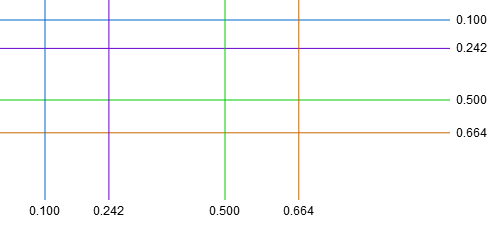
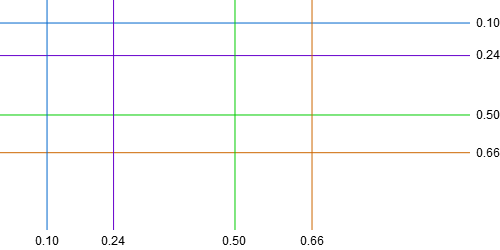
docs: improve screenshots

Changed region(s): [[0.0, 0.0, 1.0, 0.98], [0.18, 0.924, 0.27, 0.98]]

diff --git a/examples/line.js b/examples/line.js
@@ -3,17 +3,19 @@ var height = 250;
 
 var xScale = d3.scaleLinear()
   .domain([0, 1])
-  .range([0, width - 50]);
+  .range([0, width - 30]);
 
 var yScale = d3.scaleLinear()
   .domain([0, 1])
-  .range([0, height - 50]);
+  .range([0, height - 20]);
 
 var horizontalLine = fc.annotationLine()
+  .label(function(d) { return d.toFixed(2); })
   .xScale(xScale)
   .yScale(yScale);
 
 var verticalLine = fc.annotationLine()
+  .label(function(d) { return d.toFixed(2); })
   .orient('vertical')
   .xScale(xScale)
   .yScale(yScale);
@@ -23,8 +25,7 @@ var t0 = Date.now();
 
 function wavify(d, i, a) {
     var t = Date.now() - t0;
-    var value = d * Math.abs(Math.sin((i + 1) * t / 1e4 + i * Math.PI / a.length)) + 0.1;
-    return value.toFixed(3);
+    return d * Math.abs(Math.sin((i + 1) * t / 1e4 + i * Math.PI / a.length)) + 0.1;
 }
 
 function render() {

diff --git a/examples/band.js b/examples/band.js
@@ -3,11 +3,11 @@ var height = 250;
 
 var xScale = d3.scaleLinear()
   .domain([0, 1])
-  .range([0, width - 50]);
+  .range([0, width - 30]);
 
 var yScale = d3.scaleLinear()
   .domain([0, 1])
-  .range([0, height - 50]);
+  .range([0, height - 20]);
 
 var horizontalBand = fc.annotationBand()
   .xScale(xScale)

diff --git a/examples/crosshair.js b/examples/crosshair.js
@@ -3,11 +3,11 @@ var height = 250;
 
 var xScale = d3.scaleLinear()
   .domain([0, 1])
-  .range([0, width - 50]);
+  .range([0, width - 30]);
 
 var yScale = d3.scaleLinear()
   .domain([0, 1])
-  .range([0, height - 50]);
+  .range([0, height - 20]);
 
 var crosshair = fc.annotationCrosshair()
   .xScale(xScale)

diff --git a/examples/gridline.js b/examples/gridline.js
@@ -3,11 +3,11 @@ var height = 250;
 
 var xScale = d3.scaleLinear()
   .domain([0, 1])
-  .range([0, width - 50]);
+  .range([0, width - 30]);
 
 var yScale = d3.scaleLinear()
   .domain([0, 1])
-  .range([0, height - 50]);
+  .range([0, height - 20]);
 
 var gridline = fc.annotationGridline()
   .xScale(xScale)
